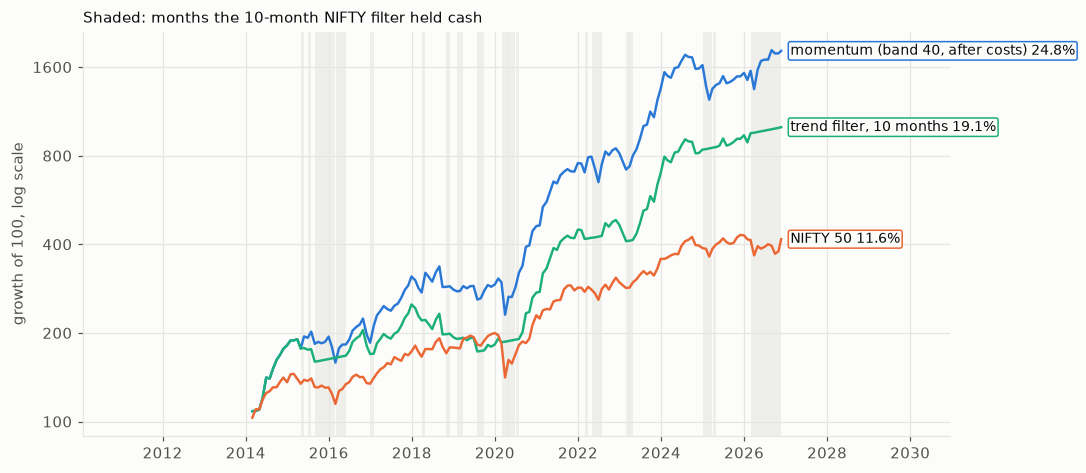
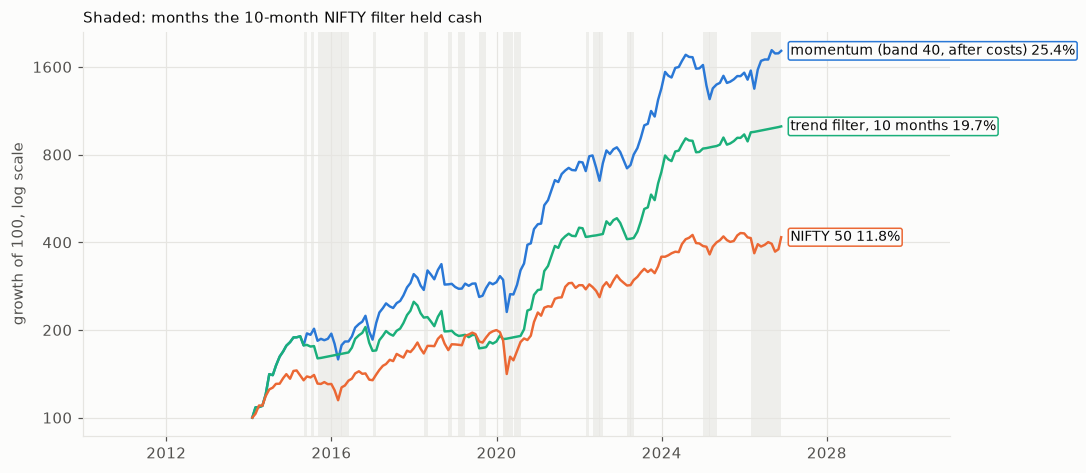
fix: apply the final review: in-sample wording, point-in-time intro, archive-price comparisons, first-month curves, tax set-off and 12-month rule, lab and design notes

diff --git a/src/mo/reports.py b/src/mo/reports.py
@@ -58,8 +58,8 @@ def report_signal(out_dir: Path) -> dict:
             f"{e['top list changed a month']:.0%} a month"
         )
 
-    # today's NIFTY 200 applied to the past (Yahoo): every stock with a price, no turnover rule
-    yp = prices()[SYMBOLS].loc["2013-01-01":]
+    # today's NIFTY 200 applied to the past, on the archive's prices: every stock with a price
+    yp = lake_px[[c for c in SYMBOLS if c in lake_px.columns]]
     flat = pd.DataFrame(1.0, index=yp.index, columns=yp.columns).where(yp.notna())
     yahoo = signal_panel(yp, flat, n=len(SYMBOLS))
     yahoo = yahoo[yahoo["date"] <= panel["date"].max()]
@@ -189,8 +189,9 @@ def report_universe(out_dir: Path) -> dict:
 
     def ew(panel):
         r = panel.groupby("date")["next"].mean()
+        first = r.index[0]
         r.index = monthly.index[monthly.index.get_indexer(r.index) + 1]
-        return (1 + r).cumprod()
+        return pd.concat([pd.Series([1.0], index=[first]), (1 + r).cumprod()])
 
     pit = signal_panel(px, universe=uni)
     today_syms = [s for s in SYMBOLS if s in px.columns]
@@ -796,8 +797,13 @@ def report_crash(out_dir: Path) -> dict:
     ew.index = monthly.index[monthly.index.get_indexer(ew.index) + 1]
     ew = ew.reindex(r.index)
 
+    start = monthly.index[monthly.index.get_loc(r.index[0]) - 1]
+
+    def curve(x):
+        return pd.concat([pd.Series([1.0], index=[start]), (1 + x).cumprod()])
+
     def stats(x):
-        e = (1 + x).cumprod()
+        e = curve(x)
         v = annual_vol(x)
         return {
             "cagr": cagr(e),
@@ -821,9 +827,9 @@ def report_crash(out_dir: Path) -> dict:
             f"{100 * v['cagr']:.1f}% a year, volatility {100 * v['vol']:.1f}%, worst drawdown "
             f"{100 * v['dd']:.1f}%, Sharpe {v['sharpe']:.2f}{extra}"
         )
-    res["period"] = f"{r.index[0]:%b %Y} to {r.index[-1]:%b %Y}"
+    res["period"] = f"{start:%b %Y} to {r.index[-1]:%b %Y}"
     for name, x in (("momentum", r), ("NIFTY 50", nr)):
-        d = drawdowns((1 + x).cumprod(), 4)
+        d = drawdowns(curve(x), 4)
         res[f"deepest drawdowns, {name}"] = "; ".join(
             f"{row.peak:%b %Y}-{row.trough:%b %Y} {100 * row.depth:.1f}%" for row in d.itertuples()
         )
@@ -848,7 +854,7 @@ def report_crash(out_dir: Path) -> dict:
         ("trend filter, 10 months", plots.SERIES[2], "-"),
         ("NIFTY 50", plots.SERIES[1], "-"),
     ):
-        e = 100 * (1 + series[k]).cumprod()
+        e = 100 * curve(series[k])
         ax.plot(e.index, e, color=c, lw=1.6, ls=ls)
         plots.label_line_end(ax, e.index[-1], e.iloc[-1], f"{k} {100 * st[k]['cagr']:.1f}%", c)
     out_months = exposure[10][exposure[10] == 0].index

diff --git a/src/mo/tax.py b/src/mo/tax.py
@@ -9,7 +9,8 @@ Set-off (simplified): within a financial year (April to March) short-term losses
 gains, then long-term gains; long-term losses reduce only long-term gains; what is left carries
 forward (without the 8-year limit). Tax for a year is paid out of the portfolio at the end of
 March by shrinking every holding in proportion, without realising gains on that sale (which
-slightly understates tax). Lots are sold first-in, first-out.
+slightly understates tax). Lots are sold first-in, first-out; long-term means sold more than 12
+calendar months after buying.
 
 The simulator holds shares and rupees, so its pre-tax path must match mo.momentum.backtest with the
 same rule (tested).
@@ -45,7 +46,7 @@ class Ledger:
             d, q, c = lots[0]
             take = min(q, shares)
             gain = take * (price - c)
-            if (date - d).days > 365:
+            if date > d + pd.DateOffset(months=12):  # held more than 12 months
                 self.lt += gain
                 self.lt_total += gain
             else:
@@ -62,12 +63,14 @@ class Ledger:
         st -= self.carry_st
         lt -= self.carry_lt
         self.carry_st = self.carry_lt = 0.0
-        if st < 0:  # short-term loss can reduce long-term gains
+        if st < 0 and lt < 0:  # both losses: each carried as its own kind
+            self.carry_st, self.carry_lt, st, lt = -st, -lt, 0.0, 0.0
+        elif st < 0:  # a short-term loss can reduce long-term gains
             lt += st
             st = 0.0
             if lt < 0:
                 self.carry_st, lt = -lt, 0.0
-        if lt < 0:
+        elif lt < 0:  # a long-term loss reduces only long-term gains
             self.carry_lt, lt = -lt, 0.0
         tax = (STCG * st + LTCG * max(lt - LTCG_EXEMPT, 0.0)) * (1 + CESS)
         self.st = self.lt = 0.0

diff --git a/src/mo/momentum.py b/src/mo/momentum.py
@@ -149,6 +149,10 @@ def _backtest_arrays(
                 pick = np.array(chosen, dtype=int)
             target = np.zeros(n)
             held = np.flatnonzero(w > 0)
+            if keep_rank is not None and (
+                tilt is not None or group is not None or max_weight is not None
+            ):
+                raise ValueError("keep_rank can't be combined with tilt, group or max_weight")
             if keep_rank is not None and len(held):
                 rank = {j: r for r, j in enumerate(order)}
                 keep = [j for j in held if rank.get(j, 10**9) < keep_rank]
@@ -291,7 +295,8 @@ def max_drawdown(equity: pd.Series) -> float:
     return float((equity / equity.cummax() - 1).min())
 
 
-# Zerodha delivery charges, November 2026 (the reference model spec §6): no brokerage; STT 0.1% each
+# Zerodha delivery charges as in the reference model spec §6 (slightly conservative: Zerodha's page in
+# Nov 2026 lists NSE 0.00307% and DP ₹15.34 including GST): no brokerage; STT 0.1% each
 # side; stamp duty 0.015% on buys; NSE transaction 0.00322% and SEBI 0.0001% each side with 18% GST;
 # about ₹16 depository (DP) charge per stock per day it is sold.
 FEES_BUY = 0.001 + 0.00015 + (0.0000322 + 0.000001) * 1.18

diff --git a/tests/test_tax.py b/tests/test_tax.py
@@ -49,3 +49,16 @@ def test_buy_and_hold_pays_once_at_the_end():
     )
     r = buy_and_hold_after_tax(p, 1_000_000)
     assert np.isclose(r["after selling"], 2_000_000 - 0.125 * 875_000 * 1.04)
+
+
+def test_both_losses_carry_as_their_own_kind_and_twelve_months_is_short_term():
+    led = Ledger()
+    led.buy("A", pd.Timestamp("2020-01-31"), 10, 100.0)
+    led.buy("B", pd.Timestamp("2019-01-31"), 10, 100.0)
+    led.sell("A", pd.Timestamp("2020-02-29"), 10, 90.0)  # short-term loss 100
+    led.sell("B", pd.Timestamp("2020-03-31"), 10, 80.0)  # long-term loss 200
+    assert led.year_end_tax() == 0 and (led.carry_st, led.carry_lt) == (100, 200)
+    led2 = Ledger()
+    led2.buy("C", pd.Timestamp("2023-02-28"), 1, 100.0)
+    led2.sell("C", pd.Timestamp("2024-02-28"), 1, 200.0)  # exactly 12 months (leap year): short
+    assert led2.st == 100 and led2.lt == 0

diff --git a/README.md b/README.md
@@ -3,10 +3,12 @@
 [![CI](https://github.com/Dhirajdas18/momentum-after-costs/actions/workflows/ci.yml/badge.svg)](https://github.com/Dhirajdas18/momentum-after-costs/actions/workflows/ci.yml)
 [![Dashboard](https://github.com/Dhirajdas18/momentum-after-costs/actions/workflows/pages.yml/badge.svg)](https://dhirajdas18.github.io/momentum-after-costs/)
 
-Long-only momentum stock selection on NSE: buy the NIFTY 200 stocks that rose most, pay real
-delivery charges every time the list changes, and compare what is left with NIFTY and with the
-Nifty200 Momentum 30 index and its funds. Daily data from 2007; every score uses only prices known
-at the time it is used.
+Long-only momentum stock selection on NSE: each month, buy the stocks that rose most among the 200
+most traded at the time (delisted ones included), pay real delivery charges and capital gains tax,
+and compare what is left with NIFTY and a Nifty200 Momentum 30 fund. The findings use a local NSE
+bhavcopy archive from 2013; every score uses only prices known when it is used, but the rule's design
+(signal, size, hold band) was chosen by comparing choices over the same 2014–2026 years it is scored
+on.
 
 **Live momentum lab: [dhirajdas18.github.io/momentum-after-costs](https://dhirajdas18.github.io/momentum-after-costs/)**,
 pick a lookback, number of stocks, rebalance frequency and cost per side and see growth of ₹1 lakh
@@ -15,7 +17,7 @@ data by GitHub Actions.
 
 ## Features
 
-- [x] The signal out of sample: 12-1, 6-1, 12-0 and 3-month returns and NSE's volatility-adjusted score
+- [x] The signal over 2014–2026: 12-1, 6-1, 12-0 and 3-month returns and NSE's volatility-adjusted score
 - [x] Survivorship and liquidity: a point-in-time universe against today's list, universe size, turnover rule
 - [x] Portfolio construction: number of stocks, weights, industry caps, and the gap to the index
 - [x] Costs and turnover: delivery charges, rebalance frequency with start-month luck, hold bands
@@ -25,7 +27,7 @@ data by GitHub Actions.
 
 ## Findings
 
-### 1. Twelve-month momentum works best volatility-adjusted; three months doesn't
+### 1. Six-to-twelve-month momentum works, the NSE-style score with the largest top-20 edge; three months doesn't
 
 <a href="docs/img/signal_compare.png"><picture><source media="(prefers-reduced-motion: reduce)" srcset="docs/img/signal_compare.png"><img src="docs/img/signal_compare.gif" alt="Top 20 minus universe return by signal, and next-month return by quintile for three signals" width="720"></picture></a>
 
@@ -49,9 +51,9 @@ method, without its weighting and buffers).
   about the same rank correlation; the textbook one-month reversal didn't show in these stocks.
 - **Stronger lately.** The score's edge was +7.8% a year in 2014–19 and +13.1% in 2020–26; 12-1's was
   +4.7% and +9.9%.
-- **Today's list flatters everything.** Applying today's NIFTY 200 to the same months, the average stock
-  made 25.5% a year against 15.4% for the stocks that were actually most traded at the time, and 12-1's
-  top-20 edge rose to +13.2% (finding 2 looks at this).
+- **Today's list flatters everything.** Applying today's NIFTY 200 to the same months (same archive
+  prices), the average stock made 23.3% a year against 15.4% for the stocks that were actually most
+  traded at the time, and 12-1's top-20 edge rose to +11.9% (finding 2 looks at this).
 ### 2. Today's list adds 9 points a year; the honest momentum edge is 12 points, but only in a wide universe
 
 <a href="docs/img/universe_survivorship.png"><picture><source media="(prefers-reduced-motion: reduce)" srcset="docs/img/universe_survivorship.png"><img src="docs/img/universe_survivorship.gif" alt="Growth of 100 for the top 20 and all stocks, on the point-in-time universe and on today's NIFTY 200, with NIFTY 50, 2014-2026" width="720"></picture></a>
@@ -64,13 +66,13 @@ too), January 2014 to November 2026: the point-in-time universe of finding 1, or
 (194 of its 200 are in the archive) applied to every month.
 
 - **Today's list adds 9 points a year.** The top 20 made 36.4% a year on today's NIFTY 200 against
-  27.1% on the stocks that were actually most traded at the time; the average stock 23.2% against
-  15.2%. NIFTY 50 made 11.8%, NIFTY 200 12.9%.
+  27.1% on the stocks that were actually most traded at the time; the average stock 23.3% against
+  15.4%. NIFTY 50 made 11.8%, NIFTY 200 12.9%.
 - **The honest edge is large.** On the point-in-time universe the top 20 beat the average stock by
-  11.9 points a year, with a worst drawdown of −33.9% against −43.4%. Over those 13 years it held 403
+  11.7 points a year, with a worst drawdown of −33.9% against −43.4%. Over those 13 years it held 403
   different stocks, only 166 of them in today's NIFTY 200; 39 stopped trading before the end.
 - **Only in a wide universe.** Among the 50 most-traded stocks the top 20 beat the rest by 1.5 points
-  a year, among 100 by 4.0, among 200 by 11.9: momentum's winners were mostly outside the largest names.
+  a year, among 100 by 3.8, among 200 by 11.7.
 - **More than the index.** Over August 2020 to November 2026, when the archive has the Nifty200
   Momentum 30 price index, our top 30 rebalanced every 6 months made 25.9% a year against the index's
   16.2% (monthly correlation 0.89). Our version holds stocks in equal weight from the most-traded list;
@@ -97,8 +99,8 @@ covers 83% of the stocks picked (the rest are not capped).
   equal (28.1%), and inverse volatility a little worse (24.1%).
 - **That explains part of the gap to the index.** Over August 2020 to November 2026, equal-weight 30
   stocks made 32.8% a year; score × size 24.3%; with a 5% cap and 6-monthly reviews, closer to the
-  index's rules, 25.6%; the index made 16.2%. The rest is likely the universe (most traded against the
-  largest by free-float market value) and NSE's buffers.
+  index's rules, 25.6%; the index made 16.2%. The rest isn't explained here; the universes differ
+  (most traded against largest by free-float market value), and NSE reviews with buffers.
 - **Industry caps cut drawdowns, not return.** At most 3 of 20 from one industry: 27.0% a year with a
   −29.2% worst drawdown, against 27.1% and −33.9% uncapped.
 - **Every version traded a lot.** Monthly rebalancing turned over 6–10 times the portfolio a year
@@ -107,12 +109,13 @@ covers 83% of the stocks picked (the rest are not capped).
 
 <a href="docs/img/costs_turnover.png"><picture><source media="(prefers-reduced-motion: reduce)" srcset="docs/img/costs_turnover.png"><img src="docs/img/costs_turnover.gif" alt="Return before and after costs for four hold bands, and net return by rebalance frequency across start months" width="720"></picture></a>
 
-The top-20 portfolio of findings 2 and 3 with Zerodha's November 2026 delivery charges: STT 0.1% on
-each side, stamp duty 0.015% on buys, NSE 0.00322% and SEBI 0.0001% each side with 18% GST, a ₹16
-depository charge for every stock sold, and 5 bp slippage a side, on ₹10 lakh. A hold band keeps a held
-stock, untouched, while it stays in the top N by score; only stocks that fall out are sold and the money
-goes equally to the best-ranked new ones, so winners are not trimmed. Slower schedules are run from every
-possible start month and scored over 2016–2026.
+The top-20 portfolio of findings 2 and 3 with Zerodha's delivery charges (as in the reference model's cost model;
+slightly above the November 2026 rate card): STT 0.1% on each side, stamp duty 0.015% on buys, NSE
+0.00322% and SEBI 0.0001% each side with 18% GST, a ₹16 depository charge for every stock sold, and 5
+bp slippage a side, on ₹10 lakh. A hold band keeps a held stock, untouched, while it stays in the top N
+by score; only stocks that fall out are sold and the money goes equally to the best-ranked new ones, so
+winners are not trimmed. Slower schedules are run from every possible start month and scored over
+2016–2026.
 
 - **Costs were small next to the edge.** Monthly with a full rebalance to equal weight: 27.1% a year
   before costs, 25.3% after; costs 1.46% a year on trading 8.4 times the portfolio.
@@ -143,11 +146,11 @@ the end. NIFTY 50 is bought once and taxed once, on the sale.
   before tax, 10.9% after.
 - **Waiting for long-term rates cost more than it saved.** Rebalanced every 13 months, only 5% of gains
   were short-term, but over every start month from 2015 it made a median 17.6% before tax and 16.2%
-  after, against 21.1% and 18.9% for monthly with the band over the same span. Every 6 and 12 months
-  sat in between (after tax, medians 17.7% and 16.1%).
+  after, against 21.1% and 18.9% for monthly with the band over the same span. Every 6 months: 17.7%
+  after tax (median); every 12 months: 16.0%.
 - **Size barely mattered.** On ₹1 crore the band made 22.2% after tax against 22.6% on ₹10 lakh: the
   ₹1.25 lakh exemption is worth less to a bigger portfolio.
-### 6. No classic momentum crash here; its bad spells were mid-cap sell-offs, and stepping aside didn't reliably help
+### 6. No rebound crash here; its worst months came when NIFTY held up, and stepping aside didn't reliably help
 
 <a href="docs/img/crash_paths.png"><picture><source media="(prefers-reduced-motion: reduce)" srcset="docs/img/crash_paths.png"><img src="docs/img/crash_paths.gif" alt="Growth of 100 for the momentum portfolio, the 10-month NIFTY trend filter and NIFTY 50, with the filter's months in cash shaded" width="720"></picture></a>
 
@@ -161,14 +164,15 @@ Moving in and out costs about 0.17% a side; the tax on those extra sales is left
 starts in 2013, so 2008 and its rebound are not in it.
 
 - **No rebound crash.** The textbook momentum crash comes when a falling market turns up sharply. Here,
-  in the 26 months NIFTY rose more than 5%, momentum matched the average stock (+0.04% a month); in
-  months below NIFTY's 10-month average its edge was larger (+10.4% a year against +8.6%).
-- **Its bad spells were mid-cap sell-offs.** Worst months: March 2020 −22.5% (NIFTY −23.2%), January 2025
+  in the 26 months NIFTY rose more than 5% (whatever came before), momentum matched the average stock
+  (+0.04% a month); in months below NIFTY's 10-month average its edge was larger (+10.4% a year against
+  +8.6%).
+- **Its bad spells didn't follow NIFTY.** Worst months: March 2020 −22.5% (NIFTY −23.2%), January 2025
   −15.1% (NIFTY −0.6%), September 2018 −14.9% (NIFTY −6.4%). Its deepest drawdowns, −31.5% to March 2020
   and −29.6% from July 2024 to February 2025, were deeper than NIFTY's in the second case (−14.3%).
-- **Stepping aside lowered return and mostly lowered the Sharpe.** Momentum alone made 24.8% a year with
-  a Sharpe of 0.81 (NIFTY 0.37). A 10-month filter made 19.1% (Sharpe 0.75), 12 months 20.1% (0.72);
-  only 6 months raised it (21.6%, Sharpe 0.90, worst drawdown −24.3%). Volatility targets of 15–25% gave
+- **Stepping aside lowered return and mostly lowered the Sharpe.** Momentum alone made 25.4% a year with
+  a Sharpe of 0.81 (NIFTY 11.8%, 0.37). A 10-month filter made 19.7% (Sharpe 0.75), 12 months 20.8%
+  (0.72); only 6 months raised it (22.2%, Sharpe 0.90, worst drawdown −24.3%). Volatility targets of 15–25% gave
   Sharpes of 0.64–0.76.
 - **One good setting among six is not a rule.** The 6-month filter's gain sits next to two filter
   lengths that lost, and every filter adds taxable sales; none is a reliable improvement on these years.
@@ -176,8 +180,8 @@ starts in 2013, so 2008 and its rebound are not in it.
 
 <a href="docs/img/verdict.png"><picture><source media="(prefers-reduced-motion: reduce)" srcset="docs/img/verdict.png"><img src="docs/img/verdict.gif" alt="Growth since August 2020 and returns before and after tax for DIY momentum, a Nifty200 Momentum 30 fund and NIFTY 50" width="720"></picture></a>
 
-₹10 lakh in the rule built in findings 1–5: each month the 20 most-traded stocks' best NSE-style
-scores, equal weight, a hold band of 40, Zerodha delivery charges, and short- and long-term gains tax
+₹10 lakh in the rule built in findings 1–5: each month the 20 best NSE-style scores among the 200
+most-traded stocks, equal weight, a hold band of 40, Zerodha delivery charges, and short- and long-term gains tax
 paid each March, with everything sold at the end. The fund is the Nifty200 Momentum 30 price index less a
 0.3% yearly fee (fund factsheets show 0.24–0.32%), bought once and taxed once on the sale; NIFTY 50 the
 same with no fee. The archive has the index from August 2020. No dividends anywhere.
@@ -208,15 +212,16 @@ uv run python scripts/build_site.py         # momentum lab -> site/index.html
 uv run pytest
 ```
 
-`scripts/fetch_constituents.py` refreshes the stock list (`docs/data/nifty200.csv`) from NSE's
-NIFTY 200 file. Event studies on delisted stocks can read a local NSE bhavcopy archive
-(`MO_LAKE_DIR`, with `panel.parquet`); it is optional and not committed.
+Every `mo report` needs a local NSE bhavcopy archive (`MO_LAKE_DIR` with `panel.parquet`,
+`universe.parquet` and `market.parquet`); it is not committed. The lab and the tests run on Yahoo
+data alone. `scripts/fetch_constituents.py` refreshes the lab's stock list (`docs/data/nifty200.csv`)
+from NSE's NIFTY 200 file.
 
 ## Design
 
 - `src/mo/universe.py`: the point-in-time universe (each day's 200 most-traded stocks at ₹50 or more
-  with a year of history) from a local NSE bhavcopy archive set by `MO_LAKE_DIR`; findings that need it say so, and only their results are
-  committed.
+  with a year of history) from a local NSE bhavcopy archive set by `MO_LAKE_DIR`; every finding uses
+  it, and only results are committed.
 - `src/mo/tax.py`: a rupee simulator of the same rule with first-in, first-out lots, short- and
   long-term gains, set-off, carried losses and yearly tax; its pre-tax path matches the backtest.
 - `src/mo/crash.py`: the trend filter, volatility scaling and drawdown table, each deciding at one
@@ -233,15 +238,20 @@ NIFTY 200 file. Event studies on delisted stocks can read a local NSE bhavcopy a
 - `src/mo/momentum.py`: month-end prices, lookback/skip momentum, a Nifty200 Momentum 30 style
   volatility-adjusted score (an approximation of NSE's methodology), and a long-only top-N
   backtest with equal weights, drifting weights between rebalances and costs on traded value.
-- `src/mo/momentum.js`: a line-for-line browser copy of `momentum.py` (without the
-  volatility-adjusted score, which needs daily prices), tested against Python through Node.
+- `src/mo/momentum.js`: the lab's browser copy of `momentum.py`'s default path (momentum scores,
+  the equal-weight backtest with a flat cost per side, CAGR, volatility, drawdown), tested against
+  Python through Node; hold bands, tilts, caps and separate buy and sell charges are Python only.
 - `src/mo/site.py`: the momentum lab, one static Plotly page; no server, no committed price data.
 - `src/mo/reports.py`: README findings, reproducible with `mo report <topic>`.
 - Conventions: decisions at month-end t use prices up to t only and trade at t's close; a held
-  stock without a price for a month earns 0 that month; costs are a rate per side on the value
-  bought and sold; CAGR is by calendar time.
-- Survivorship: the universe is today's NIFTY 200, so stocks that left the index or were delisted
-  are missing, which flatters momentum.
+  stock without a price for a month earns 0 that month; costs in the findings are separate buy and
+  sell rates plus ₹16 per stock sold (the lab uses one flat rate per side); CAGR is by calendar time.
+  Prices have no dividends, for the portfolio and for NIFTY and the Momentum 30 index alike (both are
+  price indices); with dividends every return would be higher, NIFTY's likely by more than the
+  momentum portfolio's (not measured here).
+- Survivorship: the findings use the point-in-time universe, delisted stocks included. The lab uses
+  today's NIFTY 200 from Yahoo, so its results are survivorship-biased (finding 2: about 9 points a
+  year for the top 20).
 - Charts: one validated palette; README charts are animated GIFs with a static fallback for
   reduced-motion users.
 
